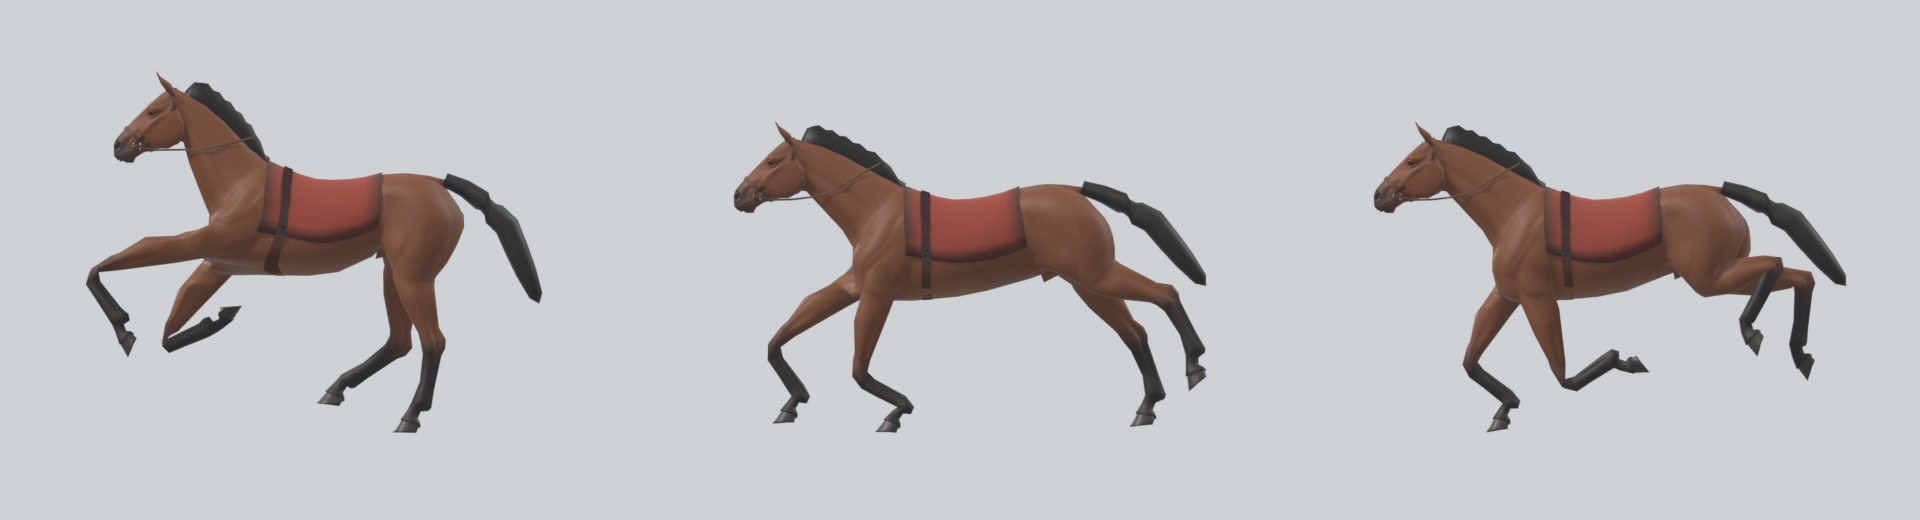
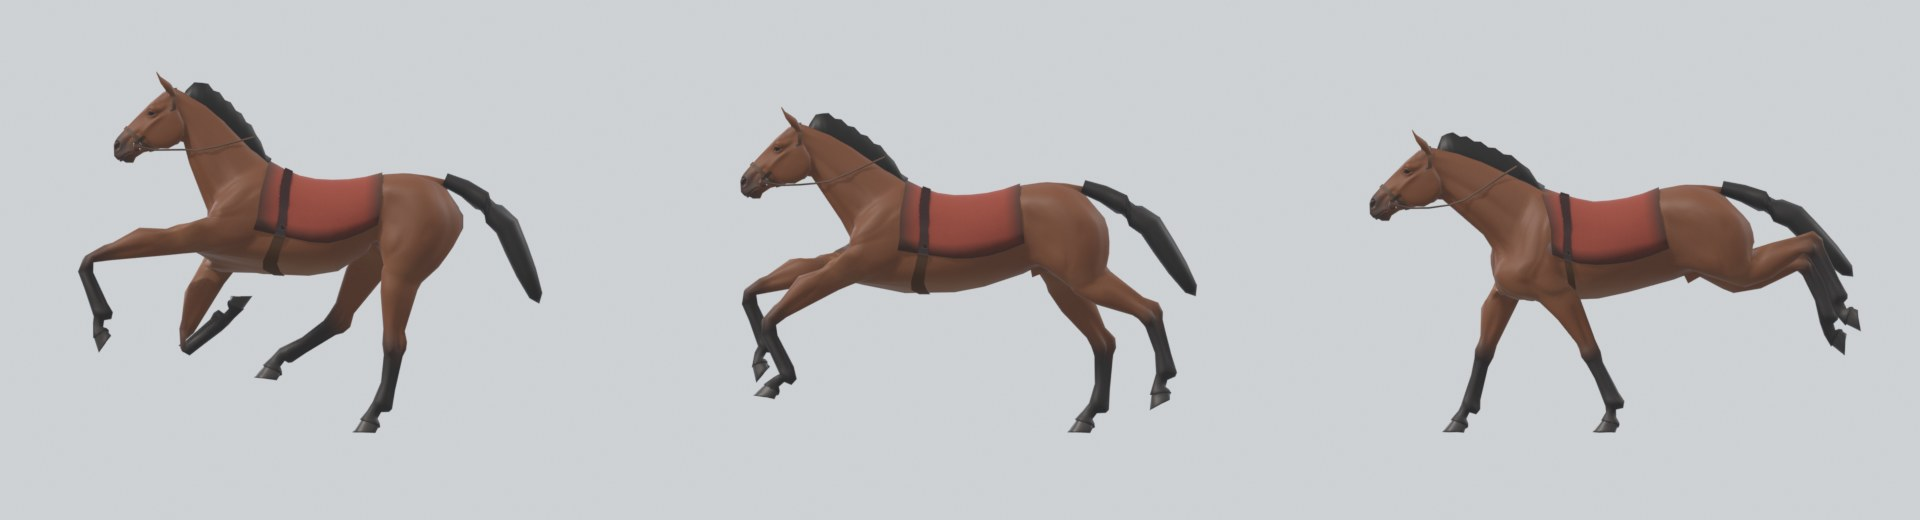
T-030: horse review images: the run's frames, the locked trot, and a strip of the gallop before and after
horse_render.py takes --only to render some of the images.

diff --git a/art/blender/horse_render.py b/art/blender/horse_render.py
@@ -1,13 +1,17 @@
 """Review images of the horse, rendered from art/build/horse/horse.blend.
 
     blender --background --factory-startup --disable-autoexec \
-        --python art/blender/horse_render.py
+        --python art/blender/horse_render.py [-- --only IMAGE ...]
 
 Writes art/renders/horse/*.jpg (each under 400 KB). The horse is not
 exported on its own, so these show the game meshes (LOD0..2, the baked
 material) in the .blend that T-022 starts from.
+
+--only renders some of the images: views, tack, lods, anim, beside, extra,
+gallop (see IMAGES).
 """
 
+import argparse
 import os
 import sys
 
@@ -17,14 +21,19 @@ import bpy  # noqa: E402
 import numpy as np  # noqa: E402
 from mathutils import Vector  # noqa: E402
 
+import horse_clips  # noqa: E402
+import horse_rig as rig  # noqa: E402
 import whp_render as R  # noqa: E402
 from whp_anim import set_action  # noqa: E402
-from whp_common import BUILD_DIR, MODELS_DIR, RENDER_DIR, ensure_dir, log, open_blend  # noqa: E402
+from whp_common import BUILD_DIR, MODELS_DIR, RENDER_DIR, ensure_dir, log, open_blend, script_args  # noqa: E402
 
 BLEND = os.path.join(BUILD_DIR, "horse", "horse.blend")
+NPZ = os.path.join(BUILD_DIR, "horse", "source.npz")
 OUT = os.path.join(RENDER_DIR, "horse")
 TMP = os.path.join(BUILD_DIR, "horse", "render-tmp")
 PANEL = (640, 520)
+STRIP_PANEL = (300, 230)     # one frame of the gallop strip
+IMAGES = ("views", "tack", "lods", "anim", "beside", "extra", "gallop")
 MAX_BYTES = 400 * 1024
 RIG = "horse-rig"
 TACK = {
@@ -61,18 +70,32 @@ def panel(name, lo, hi, view, elevation=0.0, ortho=True):
 
 
 def combine(paths, out, quality=88):
-    """Panels side by side into one JPEG; lower the quality until it fits."""
-    images = [bpy.data.images.load(p) for p in paths]
-    rows = []
-    for im in images:
-        w, h = im.size
-        a = np.empty(w * h * 4, dtype=np.float32)
-        im.pixels.foreach_get(a)
-        rows.append(a.reshape(h, w, 4))
-    strip = np.concatenate(rows, axis=1)
+    """Panels side by side into one JPEG; lower the quality until it fits.
+    `paths` may be a list of rows (lists of paths), stacked top to bottom;
+    a short row is padded with the backdrop's colour."""
+    rows_of = paths if paths and isinstance(paths[0], (list, tuple)) else [paths]
+    images = []
+    bands = []
+    for row in rows_of:
+        cells = []
+        for p in row:
+            im = bpy.data.images.load(p)
+            images.append(im)
+            w, h = im.size
+            a = np.empty(w * h * 4, dtype=np.float32)
+            im.pixels.foreach_get(a)
+            cells.append(a.reshape(h, w, 4))
+        bands.append(np.concatenate(cells, axis=1))
+    width = max(b.shape[1] for b in bands)
+    for i, b in enumerate(bands):
+        if b.shape[1] < width:
+            pad = np.repeat(b[:, -1:, :], width - b.shape[1], axis=1)
+            bands[i] = np.concatenate([b, pad], axis=1)
+    # Blender's pixel rows run bottom to top: the first row goes last.
+    strip = np.concatenate(bands[::-1], axis=0)
     h, w = strip.shape[:2]
     result = bpy.data.images.new("combined", w, h, alpha=False)
-    result.pixels.foreach_set(strip.ravel())
+    result.pixels.foreach_set(np.ascontiguousarray(strip).ravel())
     ensure_dir(os.path.dirname(out))
     # A byte image holds the panels' stored (sRGB) values as they are.
     result.filepath_raw = out
@@ -86,7 +109,30 @@ def combine(paths, out, quality=88):
         bpy.data.images.remove(im)
 
 
-def main():
+def gallop_strip(scene, wide):
+    """10-run-before-after.jpg: every frame of the source's gallop (the run
+    before T-030, top row) and of the run (bottom row), seen from the left."""
+    arm = bpy.data.objects[RIG]
+    rest = {b.name: np.array(b.matrix_local) for b in arm.data.bones}
+    data = dict(np.load(NPZ))
+    rig.key_clip(arm, "run-before", horse_clips.gait(data, rig.Frame(data), "gallop", rest), loop=True)
+    R.setup_render(scene, *STRIP_PANEL, samples=32)
+    rows = []
+    for clip in ("run-before", "run"):
+        count = int(bpy.data.actions[clip].frame_end)
+        rows.append([])
+        for f in range(count):
+            pose(clip, f)
+            rows[-1].append(panel(f"strip-{clip}-{f:02d}", *wide, "left"))
+    combine(rows, os.path.join(OUT, "10-run-before-after.jpg"))
+    bpy.data.actions.remove(bpy.data.actions["run-before"])
+    R.setup_render(scene, *PANEL, samples=32)
+
+
+def main(argv):
+    parser = argparse.ArgumentParser(prog="horse_render.py")
+    parser.add_argument("--only", nargs="+", choices=IMAGES, default=list(IMAGES))
+    only = set(parser.parse_args(argv).only)
     open_blend(BLEND)
     scene = bpy.context.scene
     ensure_dir(TMP)
@@ -97,36 +143,56 @@ def main():
     R.setup_lights(scene)
     R.add_ground(scene)
     lo, hi = HORSE_BOX
-
-    pose("idle", 0)
-    show(0)
-    combine([panel("side", lo, hi, "left"), panel("front", lo, hi, "front"), panel("back", lo, hi, "back")],
-            os.path.join(OUT, "01-side-front-back.jpg"))
-
-    paths = []
-    for key, tack in TACK.items():
-        show(0, tack)
-        paths.append(panel(f"tack-{key}", lo, hi, "front34", elevation=12))
-    combine(paths, os.path.join(OUT, "02-tack.jpg"))
-
-    paths = []
-    for level in range(3):
-        show(level)
-        paths.append(panel(f"lod{level}", lo, hi, "front34", elevation=8))
-    combine(paths, os.path.join(OUT, "03-lods.jpg"))
-
-    show(0)
     wide = (Vector((-1.3, -1.9, 0.0)), Vector((1.3, 1.5, 1.95)))
-    clips = (("idle", (0, 40, 100), "left"), ("walk", (0, 12, 25), "left"), ("run", (0, 4, 8), "left"),
+
+    if "views" in only:
+        pose("idle", 0)
+        show(0)
+        combine([panel("side", lo, hi, "left"), panel("front", lo, hi, "front"), panel("back", lo, hi, "back")],
+                os.path.join(OUT, "01-side-front-back.jpg"))
+
+    if "tack" in only:
+        pose("idle", 0)
+        paths = []
+        for key, tack in TACK.items():
+            show(0, tack)
+            paths.append(panel(f"tack-{key}", lo, hi, "front34", elevation=12))
+        combine(paths, os.path.join(OUT, "02-tack.jpg"))
+
+    if "lods" in only:
+        pose("idle", 0)
+        paths = []
+        for level in range(3):
+            show(level)
+            paths.append(panel(f"lod{level}", lo, hi, "front34", elevation=8))
+        combine(paths, os.path.join(OUT, "03-lods.jpg"))
+
+    show(0)
+    # The run's frames: the hind hooves land (0), the leading hind is down
+    # (3), both fores are down (6). Before T-030 the run had 12 frames and
+    # these were 0, 4, 8.
+    clips = (("idle", (0, 40, 100), "left"), ("walk", (0, 12, 25), "left"), ("run", (0, 3, 6), "left"),
              ("die", (12, 30, 59), "front34"))
     for i, (clip, frames, view) in enumerate(clips):
+        if "anim" not in only:
+            break
         paths = []
         for f in frames:
             pose(clip, f)
             paths.append(panel(f"{clip}-{f}", *wide, view, elevation=8 if view != "left" else 0))
         combine(paths, os.path.join(OUT, f"{4 + i:02d}-anim-{clip}.jpg"))
 
-    # Beside the standing legionary, to compare sizes.
+    if "beside" in only:
+        beside(scene)
+    if "extra" in only:
+        extra(scene, wide)
+    if "gallop" in only:
+        show(0)
+        gallop_strip(scene, wide)
+
+
+def beside(scene):
+    """Beside the standing legionary, to compare sizes."""
     pose("idle", 0)
     before = set(bpy.data.objects)
     bpy.ops.import_scene.gltf(filepath=os.path.join(MODELS_DIR, "roman-legionary.glb"))
@@ -147,7 +213,9 @@ def main():
     for o in added:
         bpy.data.objects.remove(o, do_unlink=True)
 
-    # The extra gaits kept in the file.
+
+def extra(scene, wide):
+    """The extra gaits kept in the file."""
     show(0)
     paths = []
     for clip, f in (("trot", 0), ("trot", 12), ("canter", 0), ("canter", 10)):
@@ -157,4 +225,4 @@ def main():
 
 
 if __name__ == "__main__":
-    main()
+    main(script_args())
